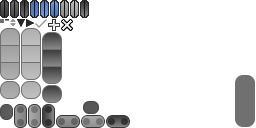
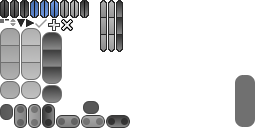
new vertical button group theme

Changed region(s): [[0.375, 0.0, 0.5, 0.4062]]

diff --git a/src/de/matthiasmann/twlthemeeditor/gui/IntegerArrayEditor.java b/src/de/matthiasmann/twlthemeeditor/gui/IntegerArrayEditor.java
@@ -70,10 +70,8 @@ public abstract class IntegerArrayEditor extends DialogLayout {
     }
 
     protected void buildControlls() {
-        if (adjusters != null) {
-            removeWidgets(adjusters);
-            removeWidgets(removeButtons);
-        }
+        setVerticalGroup(null); // stop layout
+        removeAllChildren();
 
         Group horzAdjusters = createParallelGroup();
         Group horzRemoveButtons = createParallelGroup();
@@ -87,6 +85,8 @@ public abstract class IntegerArrayEditor extends DialogLayout {
             adjusters[i].getAnimationState().setAnimationState("adjusterNotFirst", i > 0);
             adjusters[i].getAnimationState().setAnimationState("adjusterNotLast", i < array.length - 1);
             removeButtons[i] = new RemoveButton(i);
+            removeButtons[i].getAnimationState().setAnimationState("vbuttonNotFirst", i > 0);
+            removeButtons[i].getAnimationState().setAnimationState("vbuttonNotLast", i < array.length - 1);
 
             horzAdjusters.addWidget(adjusters[i]);
             horzRemoveButtons.addWidget(removeButtons[i]);
@@ -96,7 +96,6 @@ public abstract class IntegerArrayEditor extends DialogLayout {
             vertControlls.addGroup(createParallelGroup().addWidget(adjusters[i]).addWidget(removeButtons[i]));
         }
 
-        setVerticalGroup(null);
         setHorizontalGroup(createParallelGroup()
                 .addGroup(createSequentialGroup().addGroup(horzAdjusters).addGroup(horzRemoveButtons))
                 .addGroup(createSequentialGroup().addWidget(addButton).addGap()));
@@ -105,7 +104,6 @@ public abstract class IntegerArrayEditor extends DialogLayout {
                 .addWidget(addButton));
 
         updateButtonEnabled();
-        invalidateLayoutTree();
     }
 
     private void removeWidgets(Widget[] widgets) {
@@ -195,6 +193,8 @@ public abstract class IntegerArrayEditor extends DialogLayout {
 
     protected abstract void updateProperty();
 
+    protected abstract int getNewValueForAppend(int[] array);
+    
     abstract class ModifyArrayLength extends Button implements Runnable {
         public ModifyArrayLength() {
             addCallback(this);
@@ -217,7 +217,9 @@ public abstract class IntegerArrayEditor extends DialogLayout {
     class AddButton extends ModifyArrayLength {
         @Override
         protected int[] createNewArray() {
-            return Arrays.copyOf(array, array.length + 1);
+            int[] newArray = Arrays.copyOf(array, array.length + 1);
+            newArray[newArray.length-1] = getNewValueForAppend(array);
+            return newArray;
         }
     }
     

diff --git a/src/de/matthiasmann/twlthemeeditor/gui/PreviewWidgets.java b/src/de/matthiasmann/twlthemeeditor/gui/PreviewWidgets.java
@@ -66,6 +66,12 @@ public class PreviewWidgets extends DialogLayout {
             radioButtons[i].setTheme("radiobutton");
         }
 
+        Button[] vbuttons = new Button[4];
+        for(int i=0 ; i<vbuttons.length ; i++) {
+            vbuttons[i] = new Button();
+            vbuttons[i].setTheme("vbutton");
+        }
+
         Widget[] widgets = new Widget[] {
             label, button, toggleButton, checkBox,comboBox
         };
@@ -81,9 +87,13 @@ public class PreviewWidgets extends DialogLayout {
 
         setHorizontalGroup(createSequentialGroup()
                 .addGroup(createParallelGroup().addGroup(horzWidgets).addWidget(scrollbarH))
+                .addGroup(createParallelGroup(vbuttons))
                 .addWidget(scrollbarV));
         setVerticalGroup(createSequentialGroup()
-                .addGroup(createParallelGroup().addGroup(vertWidgets).addWidget(scrollbarV))
+                .addGroup(createParallelGroup()
+                    .addGroup(vertWidgets)
+                    .addWidget(scrollbarV)
+                    .addGroup(createSequentialGroup().addWidgetsWithGap("vbutton", vbuttons).addGap()))
                 .addWidget(scrollbarH));
     }
 

diff --git a/src/de/matthiasmann/twlthemeeditor/gui/SplitEditorFactory.java b/src/de/matthiasmann/twlthemeeditor/gui/SplitEditorFactory.java
@@ -91,5 +91,10 @@ public class SplitEditorFactory implements PropertyEditorFactory<Split>{
             pa.setValue(new Split(array));
         }
 
+        @Override
+        protected int getNewValueForAppend(int[] array) {
+            return (array.length > 0) ? array[array.length-1] : 0;
+        }
+
     }
 }

diff --git a/src/de/matthiasmann/twlthemeeditor/gui/WeightsEditorFactory.java b/src/de/matthiasmann/twlthemeeditor/gui/WeightsEditorFactory.java
@@ -75,6 +75,11 @@ public class WeightsEditorFactory implements PropertyEditorFactory<Weights> {
                 return false;
             }
         }
+
+        @Override
+        protected int getNewValueForAppend(int[] array) {
+            return 1;
+        }
     }
 
 }
